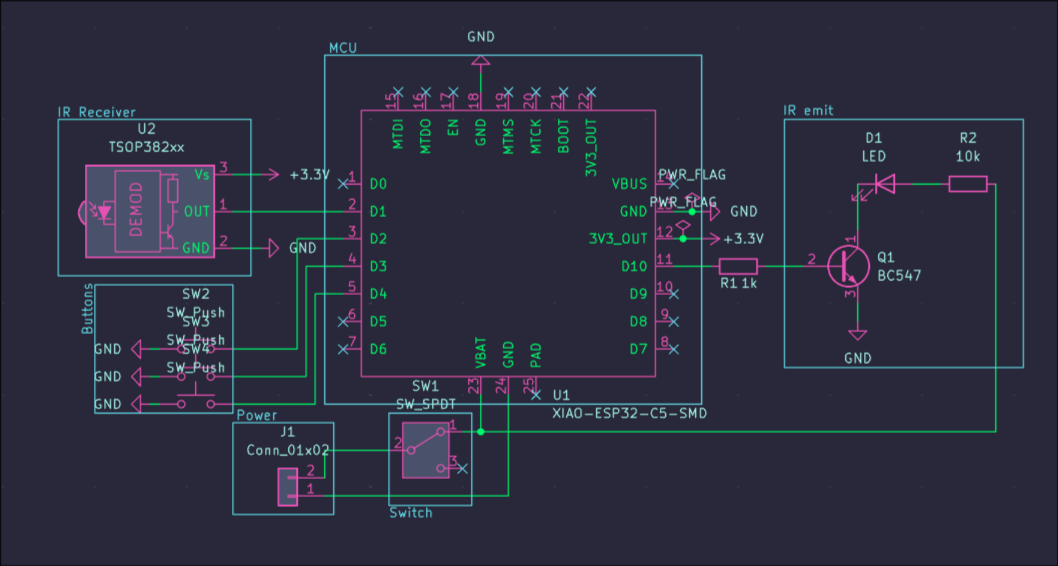
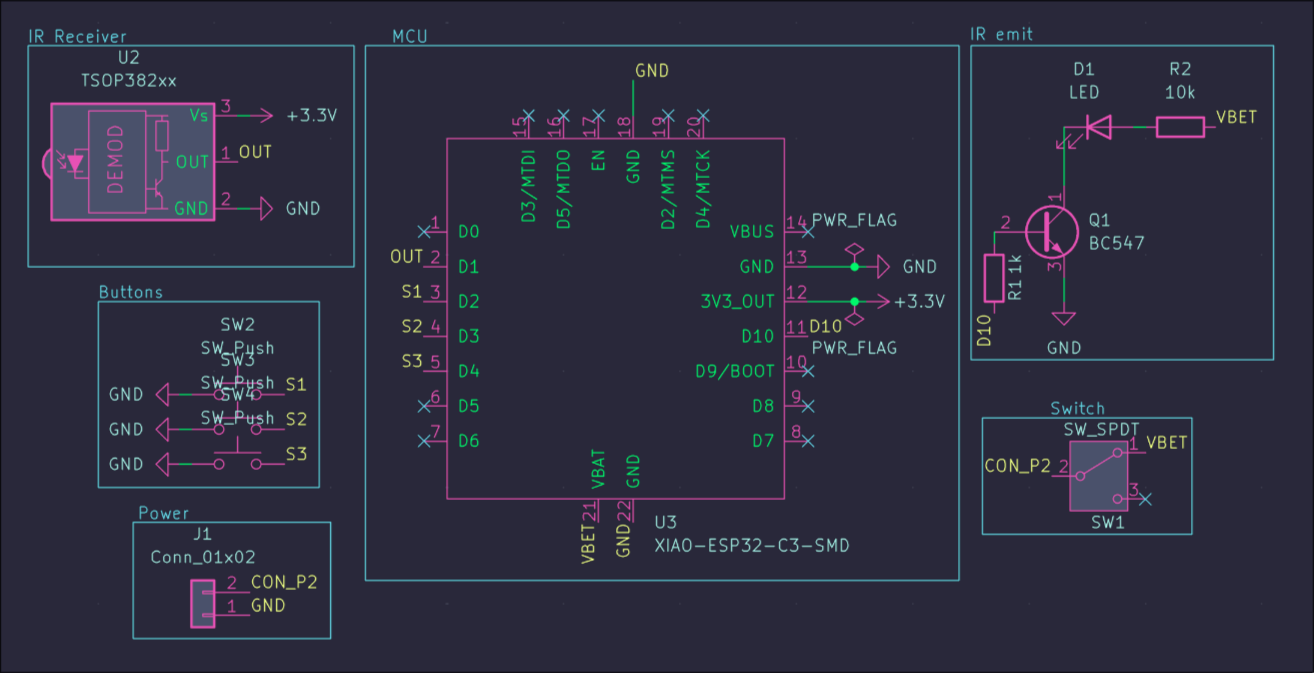
Updated a lot of stuff

Changed region(s): [[0.0, 0.03, 0.9669, 0.9611]]

diff --git a/README.md b/README.md
@@ -2,6 +2,12 @@
 A small IR remote built using a XIAO ESP32 C5. Point a remote at it, press a button, and it remembers the signal. Press another button and it re emit it back out.
 
 ## Gallery
+## Final PCB front
+![FINAL PCB FRONT](assets/final_pcb_front.png)
+
+## Final PCB back
+![FINAL PCB BACK](assets/final_pcb_back.png)
+
 ### PCB
 ![PCB](assets/pcb.png)
 
